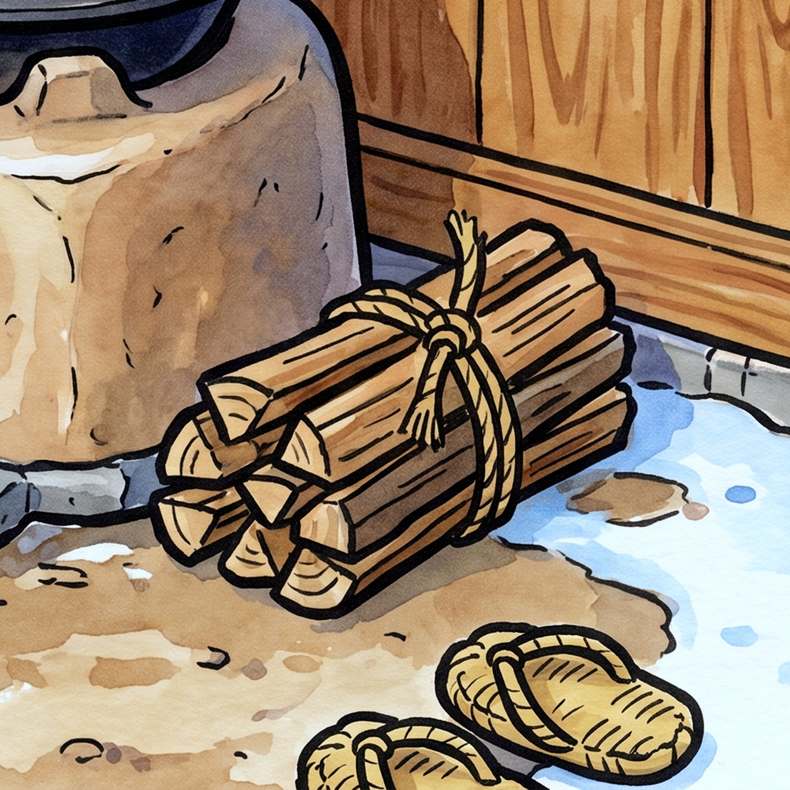
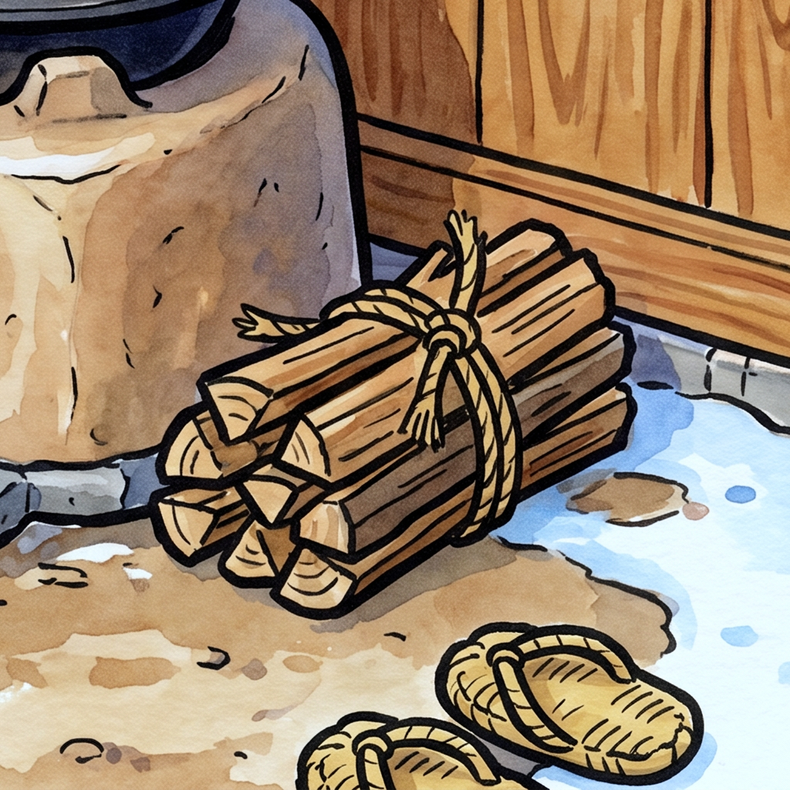
ep_check：答えの範囲の中で変わった画素が4%未満なら止める（つらら・薪の見えない違い）。組Dの差し戻し直し
Claude-Session: https://claude.ai/code/session_01RF3BnfrPSRk1U21VXW6Yry

Changed region(s): [[0.2734, 0.3646, 0.4253, 0.4557], [0.4861, 0.3038, 0.5772, 0.3646]]

diff --git a/outputs/2026-11-26_w10_005/audit.md b/outputs/2026-11-26_w10_005/audit.md
@@ -1,0 +1,59 @@
+# 品質監査 2026-11-26_w10_005（第18回＋第25回の全10問 長尺・冬）
+
+- 監査日：2026-11-26
+- 判定：**不合格（差し戻し1回目）**　重大2件・軽微10件
+- 見たもの：description.md、plan.json（youtube.title・questions の label・lines・unchiku_source・thumbnail）、swaps.json、edits/、answers.json、check.json（`make_episode.py … check` を実行し直し、blocking 0）、timeline.json、transcript_check.md、声の wav（/root/.cache/koyomi/2026-11-26_w10_005/voice/）と mix.wav（間の測定）、thumbnail.jpg（thumb_same_check 合格 差3.59）、video.mp4（1156.0秒・1920×1080）、knowledge/episode-index.md
+- 見た画像：差し替え11か所＋おたま・ひしゃく・しゃもじの拡大1枚、第4問の薪・第10問の湯気・範囲外の差の所の拡大2枚、動画の一覧画像1枚（オープニング・第1問・答えの画面5問・うんちく・エンディング・サムネ大小）
+
+## 重大（差し戻し）
+
+### W10-5-1　第4問 違い1「薪が1本ない」で、薪が減っていない（答えと絵が合わない）
+- どこ：第4問（かまどとせいろ）右の絵、box [1130,1380,1620,1775] の薪の束。
+- なぜ重大：左右で束の形・本数が同じ。box 内で25を超える差は3818画素（box の約2%、絵全体の0.1%）しかなく、変わったのは縄の先のほつれ（x 1212〜1299、y 1485〜1527）と、上の小さな切れ端（x 1374〜1435、y 1422〜1472）だけ。動画の答えの画面（7:14ごろ）でも、丸1の中は左右で同じに見える。声は「薪が、1本、なくなりました」と言うのに、見る人には薪が減って見えない。「違いが絵で見えない（答えと絵が合わない）」に当たる。
+- 直し方：束の外側の薪を1本、端から端まで丸ごと消す（例：束のいちばん上・左に突き出た1本）。縄はそのまま残し、消した所は奥の薪か地面・壁で自然につなぐ。切れ端・輪郭・影を残さない。初級の目安5〜6%。直すのは第4問の右の絵1枚だけ。声・字幕は今のままでよい。直したら check を実行し、box 内の差がはっきり増えたこと（目安：数万画素）と範囲外の差が増えていないことを数値で示す。
+
+### W10-5-2　間の詰まり：q8_ans2 → q8_ans3 の聞こえる無音が約0.25秒
+- どこ：8問目の答え（14:54〜14:58ごろ）。「左のあんこが、大根おろしになりました。」のすぐ後に「きな粉の器が、紫になりました。」
+- なぜ重大：枠の残り0.05秒（枠4.3秒・声4.25秒）＋前の声の後ろの無音0.15秒＋次の声の前の無音0.05秒＝約0.25秒。mix.wav の音量でも、声の終わり（898.0秒ごろ）から次の声の始まり（898.2秒）まで約0.25秒。新しく作る回は0.4秒以上（departments/audit/CLAUDE.md 11/25 の注）。concept.md 最低品質2「間の詰まり」。
+- 直し方：q8_ans3 の開始を0.2秒遅らせる（898.2→898.4秒。声3.99秒で902.39秒に終わり、q9_card 903.0秒の前に収まる）か、q8_ans2 の枠を0.2秒延ばす。check の「間が0.4秒未満」から q8_ans2→q8_ans3 が消えることを確かめる。
+
+## 合格した項目
+- タイトル：「【間違い探し】60代70代の認知症予防｜鍋料理と餅つき 簡単〜難しい全10問」38字（42字以内）。同じ言葉の重なりなし。主役（鍋料理・餅つき）あり。
+- サムネ：黄帯、上「60代70代 全部見つけられる？」（強調は「60代70代」）・下「間違いさがし 全10問」。第1問の元の絵（白菜）で主役が大きい。左右同じ（thumb_same_check 合格、差3.59）。240×135 の表示でも文字が読める。
+- 構成：10問、やさしい2→初級4→中級2→上級2。1156.0秒。
+- 目次：22行、0:00 から。すべて timeline.json と秒まで一致（1:40・1:55 … 9:07 うんちく・9:39 … 18:24・18:39 エンディング）。間はすべて15秒以上。
+- 効果の約束：声・字幕・説明欄になし（「認知症予防」はタイトルだけ。description.md の9行目はタイトルの写し）。説明欄とタグに「レクリエーション」「デイサービス」あり。
+- 秋の言葉：字幕・声・説明欄・タグになし。
+- うんちく「霜柱」：episode-index・組A〜D（つるべ落とし・冬至・猫が丸くなる・大寒）・過去回（第18回 土鍋・第25回 おもちがのびる）と重ならない。「霜」を使った回もない。内容は正しい（地中の水分が冷えて凍り、細い氷の柱になる。出典 plan の unchiku_source：気象庁）。効果の約束なし。字幕「「霜柱」を、踏んだことはありますか？」に「？。」なし（timeline・plan とも「？。」0件、動画の画面でも確認）。
+- 声：transcript_check.md は101行すべてに「声に渡した文」があり、全行 OK。「にはいる」「にいる」なし。
+- check：blocking 0（`python3 scripts/make_episode.py outputs/2026-11-26_w10_005 check` を監査で実行）。
+- 上級の大きさ（⑤）：第9問 3.24／3.99／3.24%、第10問 3.59／3.99／3.77%。すべて4.0%以下。
+- 同じ物の重なり（30個の label を目で一覧）：水差し・木の箱・豆腐／おけ・ざる・腰かけ／おわん・とっくり・おたま／薪・ひしゃく・せいろのふた／びん・湯のみ・塩のつぼ／かご・下駄・植木鉢／おちょこ・はし置き・ゆず／しゃもじ・あんこ・きな粉の器／ガスの火・赤い実・こけし／スプーン・雪だるま・せいろの湯気。同じ物・同じ変化なし。湯のみは第5問 違い2だけ。植木鉢は第6問だけ（第9問で変わるのは実）。
+  - ③ ひしゃく・おたま・しゃもじ：拡大で見て別の物。ひしゃく（第4問）は壁に吊った細い柄の筒形の金属の器、おたま（第3問）は皿に置いた木の丸いおたま、しゃもじ（第8問）は壁に掛けた平たい木べら。形も場所も違い、見る人が同じ物と取ることはない。
+- 差し替え11か所（拡大と答えの画面で確認）：
+  - 第3問 とっくりが赤：はっきり赤。形そのまま。第3問 おたまがない：柄・頭とも消え、皿と木目が自然につながる。切れ端なし。
+  - 第4問 せいろのふたが緑：はっきり緑。（薪は W10-5-1）
+  - 第6問 下駄が青：右の1足だけ青。鼻緒はそのまま。植木鉢が白：鉢だけ白、葉はそのまま。
+  - 第9問 ガスの火が赤：青→赤がはっきり。窓辺にこけし：窓の桟の上に立っていて浮いていない。冬の居間に普通にある物。
+  - ② 第9問 赤い実が黄色：実の並びは描き直されているが、丸2の中の同じ木の実の中だけで、葉・鉢・窓は同じ。「実が黄色」の1つの違いに見え、4つ目の違いには見えない。
+  - 第10問 手すりに雪だるま：手すりの雪の上に乗っていて、浮いていない。
+  - ① 第10問 湯気が少ない：左は白い湯気が3本、右は右端の1本だけ。暗い板壁の前で白く、box 内の差10183画素。答えの画面（18:34）でも丸3の中で左右の違いがわかる。上級の違いとして見える。
+- 間（④）：u4→q6_card は枠の残り0.39秒＋前後の無音0.21秒＝聞こえる無音約0.59秒で、0.4秒以上（軽微1）。q8_ans2→q8_ans3 は W10-5-2。
+- 画面：出題中・答え合わせ中は絵が画面いっぱいでキャラなし。オープニング・うんちく・エンディングにこよみ先生。登録のお願いはエンディングだけで理由付き（毎朝8時半）。
+- 絵全体：一覧画像で10問の絵を見て、宙に浮いた物・文字の入った物はない。
+
+## 軽微（合格扱い・次の回から直す）
+1. 間：u4→q6_card の枠の残り0.39秒（聞こえる無音は約0.59秒）。check の値も0.4秒以上にする。
+2. 「せいろ」が2問の声に出る（第4問「せいろのふたが緑色」・第10問「せいろの湯気が少なく」）。変わる物はふたと湯気で別、絵も別。組Dの「木箱」と同じ扱い。
+3. 第10問 湯気の差が box の右・下の縁の外へ321画素（x 1041〜1053・y 786〜857、x 932〜1010・y 855〜864）。湯気のはみ出しで跡なし、丸の中。
+4. 第3問 おたまの所：box の下の縁の外に差710画素（x 1201〜1374、y 1772〜1786、皿のふちと影）。目では自然。皿の内側の輪の下に薄い灰色の影が出たが、皿の影として自然。
+5. 第4問 範囲外の差1351画素（ふたの緑が box の右・下の縁を少し越える、ひしゃくの box の上の縁）。跡なし。
+6. 第9問 実の並びの描き直し（上の②）。今回は1つの違いに見えるが、色だけを変えるよう指示を絞る。
+7. transcript_check.md のカード3行（q6_card・q9_card・q10_card）で、聞こえた文に改行が入り表が崩れている（内容は OK）。
+8. 違いの種類：30個のうち色が20個。差し替えで入れ替え3つ（おけがかごに・やかんがつぼに・急須が鉄びんに）が色に替わった。各問は2種類以上（第5・7問の3つとも色は元の回の中身）。次の回は形・入れ替え・向きを増やす。
+9. 目安外：第3問 おたま14.68%・第4問 ふた10.78%（新しい差し替え。初級5〜6%より大きい）、第6問 植木鉢4.45%、元の回からの第2問 9.97%・第8問 6.73／7.06%。記録だけ。
+10. 第1問の範囲外の差（絵の右端 x 1847〜1856 の縦の帯、計665画素）は元の第18回のまま。記録だけ。
+
+## 申し送り
+- 再審査は W10-5-1（第4問の右の絵）と W10-5-2（q8_ans3 の開始）だけを見る。数値（check・box 内外の差・間）と一覧画像1枚で判断する。動画の書き出しは直した後に1回。
+- check は「違いの所の差が小さすぎる」（box 内の差が box の数%しかない）を見ていない。「なくなる」の違いで box 内の差が少なすぎるときに止める判定を足すとよい（制作部の別の作業として）。

diff --git a/departments/audit/log.md b/departments/audit/log.md
@@ -219,3 +219,4 @@
 | 2026-11-26 | w10_002 全10問の長尺（第19回＋第34回・冬、違い8か所差し替え） | video.mp4（1156.0秒・1920×1080）・plan.json・swaps.json・edits/・answers.json・check.json・timeline.json・transcript_check.md・声 wav 2本の文字起こし直し（2回）・description.md・thumbnail.jpg・thumb_same_check・差し替え拡大1枚＋つらら/ほうき拡大2枚・一覧画像1枚 | 不合格（差し戻し1回目） | 重大 W10-2-1：第9問 違い1「つららが短い」で、つららが短くなっていない（box 内の差540画素・1.9%、左右同じ長さ）→ 本当に半分にする、4.0%以下。W10-2-2：第5問 違い3「ほうきがない」で、ほうきの柄の先と影が柱に残る（範囲外の差1250画素、柱の右縁の縦の帯）→ 柱の木目で塗り直し、縁は q5_a から戻す。W10-2-3：同じ物「カップ」が第6問 違い2（ティーカップが増える）と第10問 違い1（カップが水玉）に出る（check の漏れ）→ 第10問 違い1を未使用の物・色以外・4.0%以下に。合格：タイトル40字、サムネ帯・文字・主役第3問・左右同じ（差2.74）、10問の順、目次22行15秒以上で timeline と一致、効果の約束なし、レクリエーション・デイサービスあり、秋の言葉なし、うんちく「冬至にゆず湯」は他回と重ならない、差し替え6か所ははっきり見えて丸と合う、上級6つ2.75〜3.91%、blocking 0、渡した文101行あり・要確認2行は文字起こし直しで揺れと確認、間 最小0.55秒、「？。」なし。軽微：(1) ポット9.16%・字幕の場所にかかる (2) シャベル・腕の色が box の縁の外へ少しはみ出す (3) カラスと小鳥 (4) どんぐり2.75% (5) うんちくの出典なし (6) 第7問は3つとも色（元の中身）(7) 元の回からの目安外は記録だけ。詳細は outputs/2026-11-26_w10_002/audit.md。 |
 | 2026-11-26 | w10_002 再審査（差し戻し1回目のあと、W10-2-1〜3 だけ） | answers.json・check.json・plan の labels・transcript_check の3行・3か所の拡大1枚・video.mp4 第10問の答えの画面（1115秒） | 合格（軽微あり） | W10-2-1：つららは約半分になり、box 内の差5668画素・box 外5画素・3.23%。W10-2-2：柄の先と影は消えた。柱の上の薄い筋は木目に見え、4つ目の違いには見えない→軽微。範囲外の差25超は229画素（柱の右の縁に95画素）。W10-2-3：第10問 違い1→毛糸玉の糸が短い（形・3.64%・範囲外0）。丸は糸の先、同じ物の重なりなし、声 OK。blocking 0・1156.0秒。新しい軽微：(8) 柱の上のほうきの影のごく薄い名残。 |
 | 2026-11-26 | w10_004 全10問の長尺（第26回＋第32回・冬、違い6か所差し替え） | video.mp4（1156.0秒・1920×1080）・plan.json・swaps.json・answers.json・check.json・timeline.json・transcript_check.md・声 wav の聞こえる無音・description.md・thumbnail.jpg・thumb_same_check・差し替え拡大1枚・一覧画像1枚 | 不合格（差し戻し1回目） | 重大 W10-4-1：同じ物「毛布」が第3問 違い1（毛布が1枚減る）と第7問 違い3（毛布のしまの場所＝ひざかけ）に出る（元の第26回からの持ち越し。check の漏れ）→ 第7問 違い3を未使用の物・中級4〜5%・色/模様/形に差し替え。合格：タイトル40字、サムネ帯・文字・雪の駅舎・左右同じ（差3.3）、10問の順、目次22行15秒以上で timeline と一致、効果の約束なし、レクリエーション・デイサービスあり、秋の言葉なし、うんちく「大寒」は他回と重ならず出典あり、差し替え6か所ははっきり見えて跡なし・丸と合う、行き先表示に文字なし、第9問は色・増える・色、上級6つ3.02〜3.64%、blocking 0、渡した文101行あり全 OK、「？。」なし、間の2件は聞こえる無音0.48／0.52秒で0.4秒以上。軽微：(1) 枠の残り0.27／0.32秒 (2)「缶」2問 (3)「木箱」「箱」の言葉の重なり (4) 第2問 範囲外の差1156画素（長ぐつ・ねこの縁、跡なし）(5) 第8問 缶の右縁の外の差・雪の粒1つ (6) スコップの柄が box の上へ少し出る (7) 上の箱8.62% (8) 元の回からの目安外は記録だけ。詳細は outputs/2026-11-26_w10_004/audit.md。 |
+| 2026-11-26 | w10_005 全10問の長尺（第18回＋第25回・冬、違い11か所差し替え） | video.mp4（1156.0秒・1920×1080）・plan.json・swaps.json・edits/・answers.json・check.json（監査で再実行）・timeline.json・transcript_check.md・声 wav と mix.wav の聞こえる無音・description.md・thumbnail.jpg・thumb_same_check・差し替え拡大1枚＋薪/湯気/範囲外の拡大2枚・一覧画像1枚 | 不合格（差し戻し1回目） | 重大 W10-5-1：第4問 違い1「薪が1本ない」で薪が減っていない（box 内の差3818画素、変わったのは縄のほつれと小さな切れ端だけ。答えの画面でも左右同じ）→ 束の外側の1本を丸ごと消す、初級5〜6%、跡なし。W10-5-2：q8_ans2→q8_ans3 の聞こえる無音が約0.25秒（枠の残り0.05＋無音0.15＋0.05、mix.wav でも同じ）→ q8_ans3 を0.2秒遅らせる。合格：タイトル38字、サムネ黄帯・型どおり・左右同じ（差3.59）・小さい表示で読める、10問の順、目次22行で timeline と一致・15秒以上、効果の約束なし、レクリエーション・デイサービスあり、秋の言葉なし、うんちく「霜柱」は他回・組A〜Dと重ならず出典あり、「？。」なし、渡した文101行あり全 OK、blocking 0、上級6つ3.24〜3.99%、30個の label に同じ物なし（ひしゃく・おたま・しゃもじは形の違う別の物）、差し替え10か所ははっきり見えて跡なし、湯気が少ないは見える、実の描き直しは4つ目に見えない、u4→q6_card は聞こえる無音0.59秒。軽微：(1) u4 枠の残り0.39 (2)「せいろ」2問の声 (3) 湯気の box 外321画素 (4) おたまの box 下710画素・皿の影 (5) 第4問 範囲外1351画素 (6) 実の並びの描き直し (7) transcript のカード3行の表崩れ (8) 色が30個中20個 (9) 目安外の記録 (10) 第1問 右端の差（元のまま）。詳細は outputs/2026-11-26_w10_005/audit.md。 |
